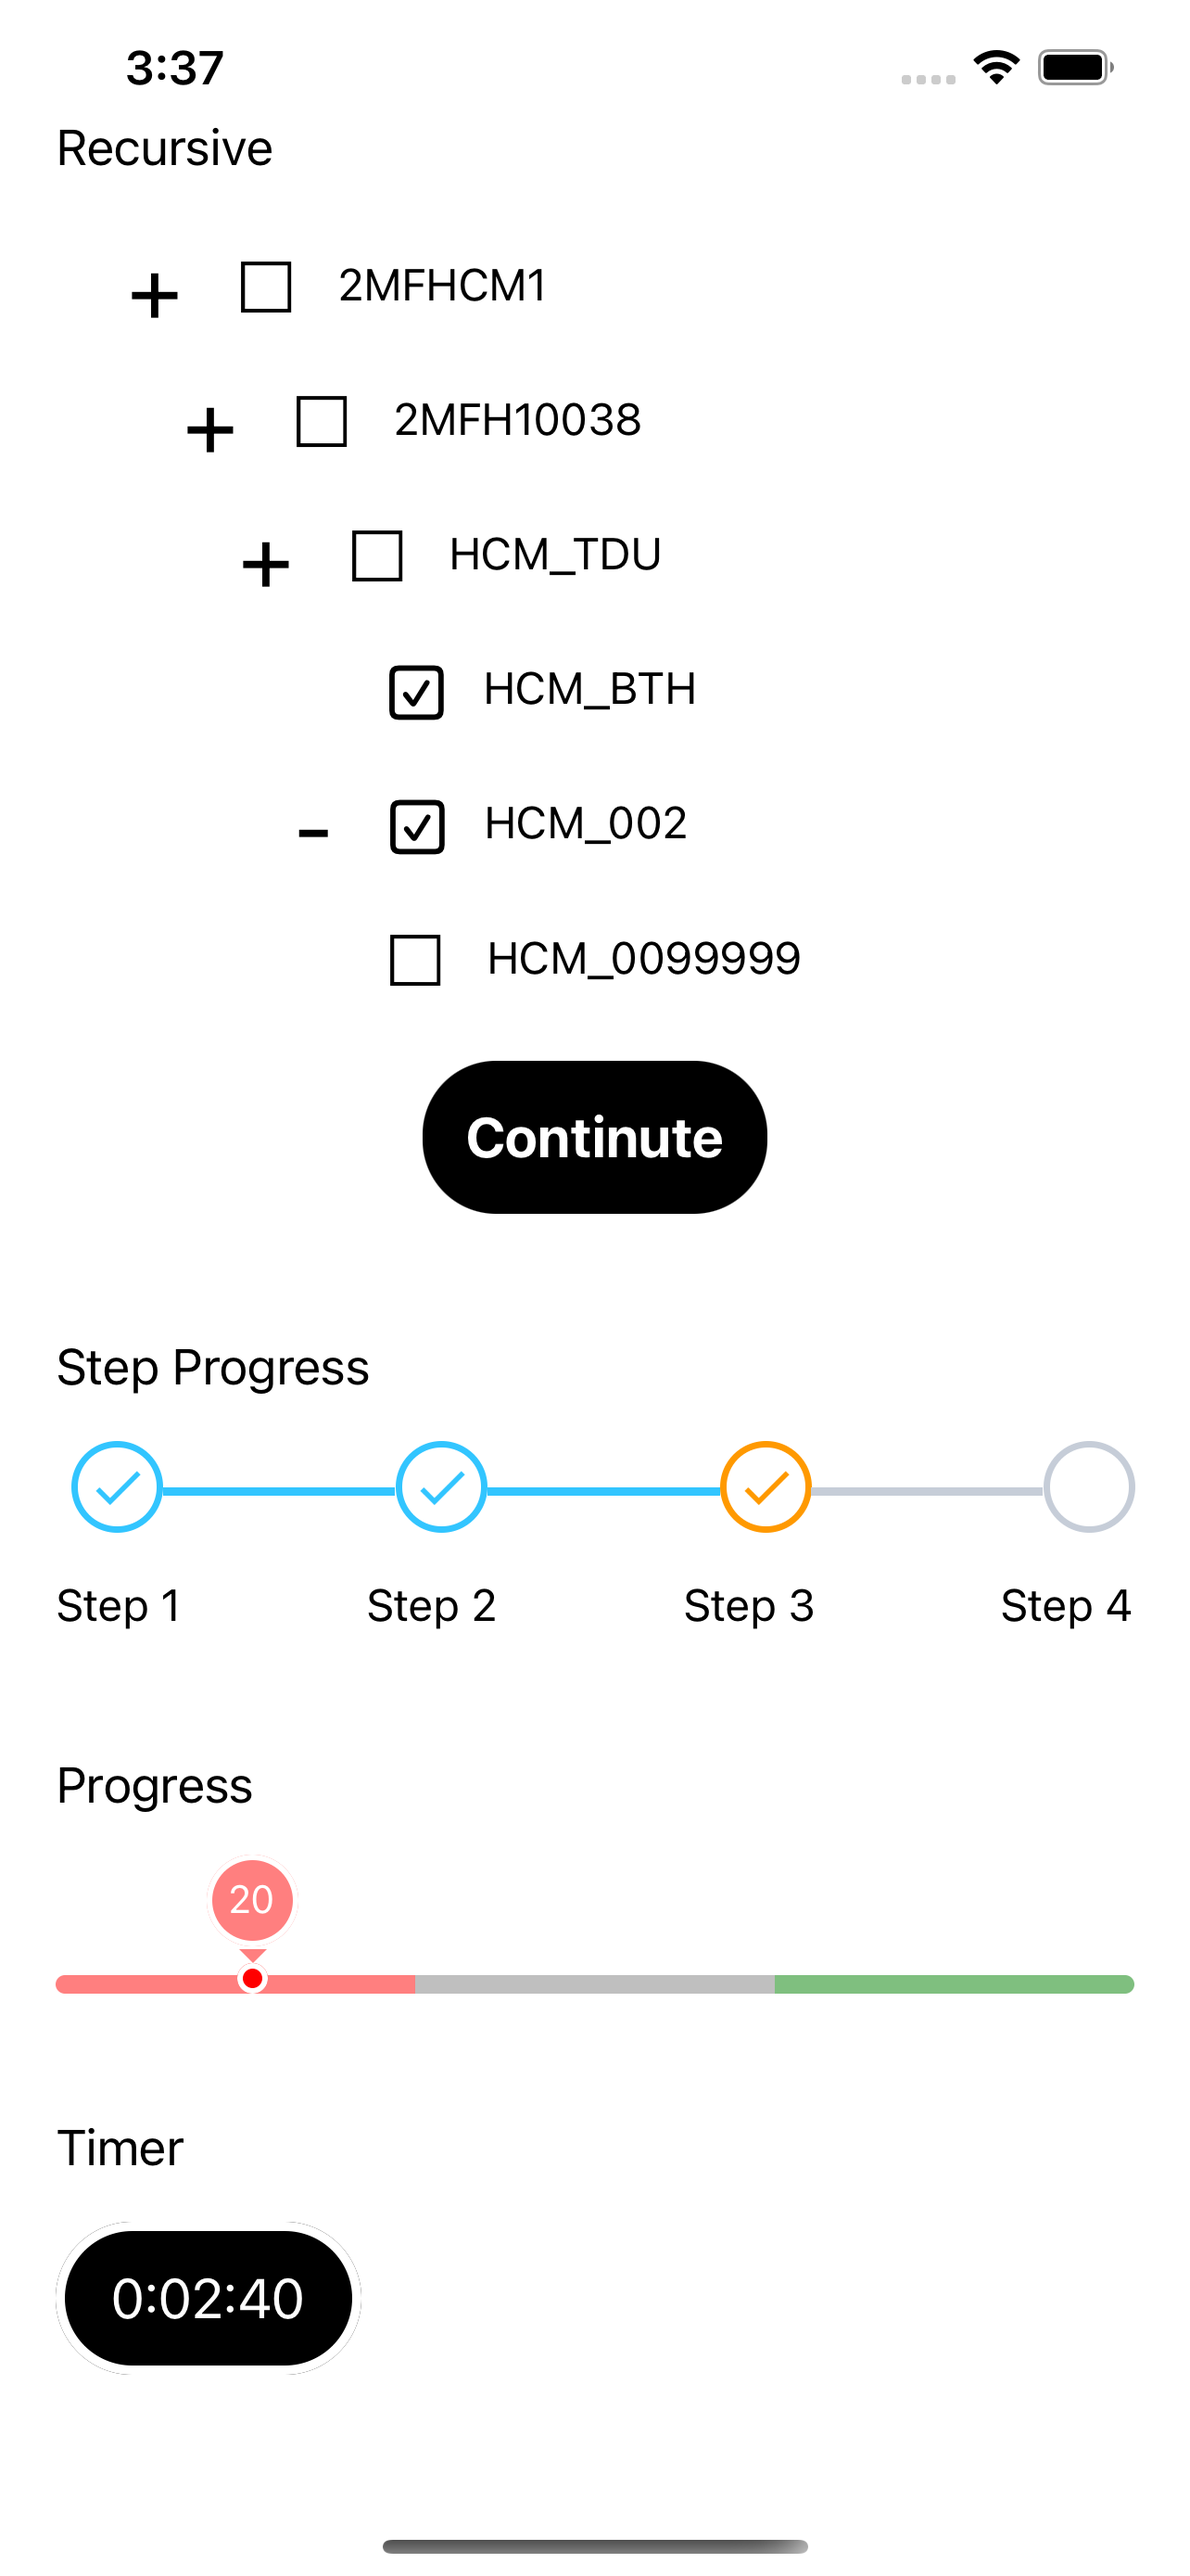
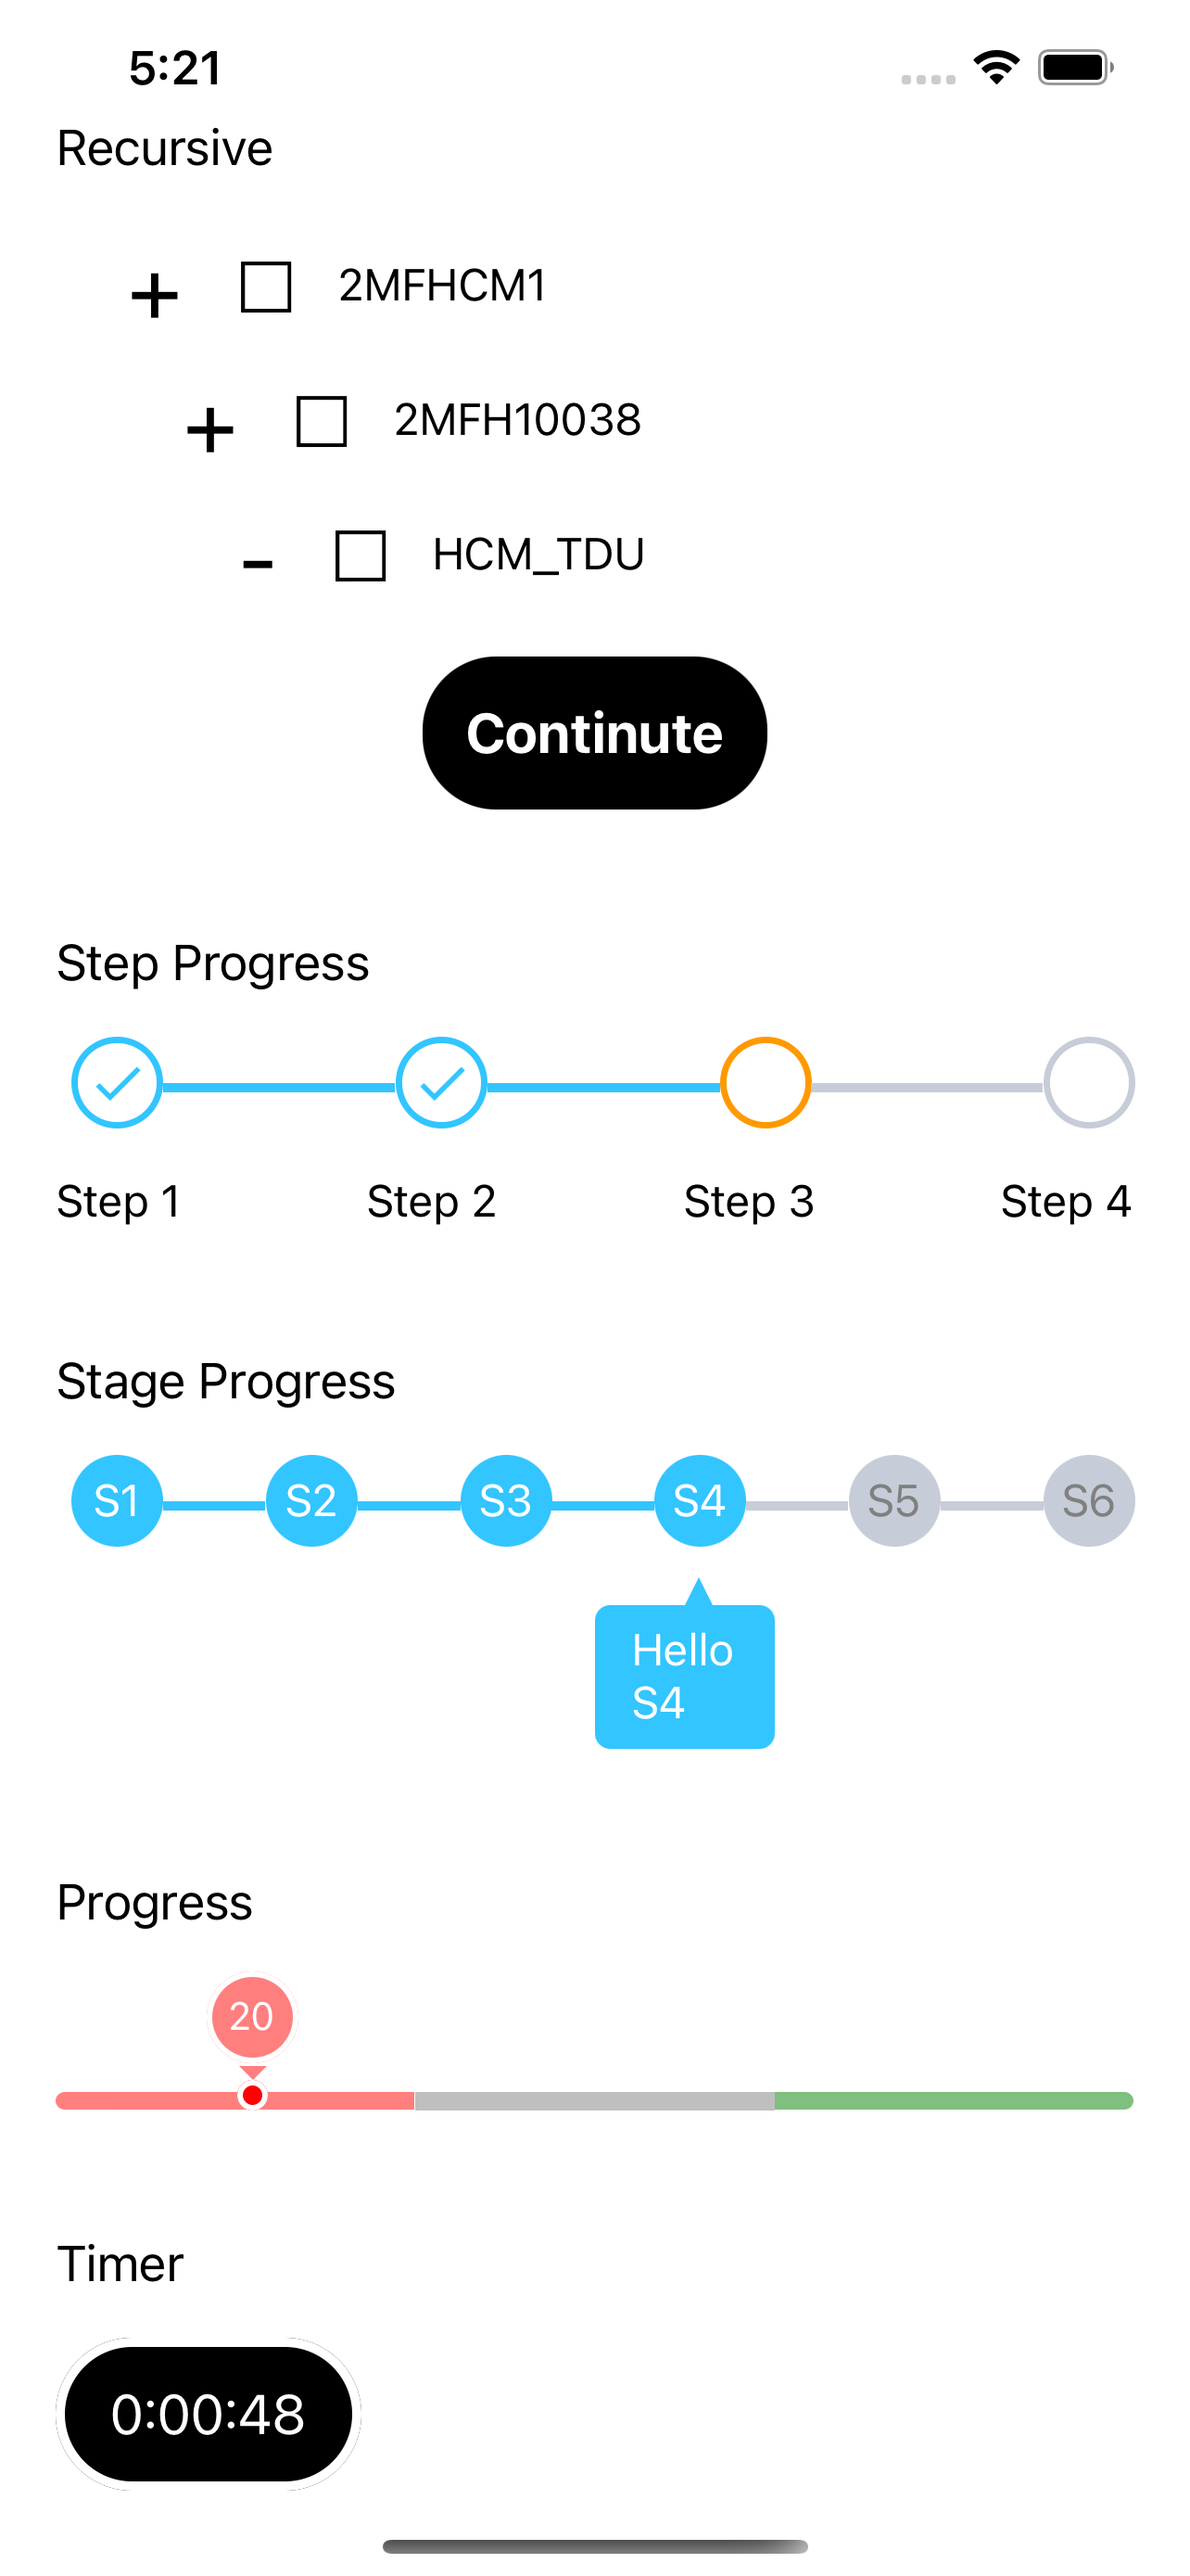
add stage progress

diff --git a/src/components/StageProgress/index.tsx b/src/components/StageProgress/index.tsx
@@ -15,18 +15,19 @@ export interface Props {
 }
 
 export interface Item {
+  stage: string;
   text: string;
   status: boolean;
 }
 
 const defaultProps = {
   data: [
-    { text: 'Step 1', status: false },
-    { text: 'Step 2', status: false },
-    { text: 'Step 3', status: false },
-    { text: 'Step 4', status: false },
-    { text: 'Step 5', status: false },
-    { text: 'Step 6', status: false },
+    { stage: 'S1', text: 'S1', status: false },
+    { stage: 'S2', text: 'S2', status: false },
+    { stage: 'S3', text: 'S3', status: false },
+    { stage: 'S4', text: 'S4', status: false },
+    { stage: 'S5', text: 'S5', status: false },
+    { stage: 'S6', text: 'S6', status: false },
   ],
   activeColor: '#32C5FF',
   inActiveColor: '#C6CDD8',
@@ -78,20 +79,23 @@ const StepProgress: React.FC<Props> = (props) => {
               style={[
                 styles.radius,
                 {
-                  borderColor:
+                  backgroundColor:
                     index === selectIndex ? selectColor : item.status ? activeColor : inActiveColor,
                 },
               ]}>
-              {item.status && (
-                <Image
-                  style={[
-                    styles.icon,
-                    { tintColor: index === selectIndex ? selectColor : activeColor },
-                  ]}
-                  source={require('./icon/check.png')}
-                />
-              )}
+              <Text
+                style={[
+                  {
+                    fontSize: fontScale(textSize),
+                    color: item.status || index === selectIndex ? 'white' : 'gray',
+                  },
+                ]}>
+                {item.stage}
+              </Text>
             </View>
+            {index === selectIndex && (
+              <View style={[styles.triangle, { borderBottomColor: activeColor }]} />
+            )}
           </TouchableOpacity>
         </View>
       </View>
@@ -100,14 +104,13 @@ const StepProgress: React.FC<Props> = (props) => {
 
   const renderText = (item: Item, index: number) => {
     return (
-      <View
-        style={[
-          index !== 0 && {
-            flex: 1,
-            alignItems: 'flex-end',
-          },
-        ]}>
-        <Text style={[styles.text, { fontSize: fontScale(textSize) }]}>{item.text}</Text>
+      <View style={{ flex: 1 }}>
+        {index === selectIndex && (
+          <View
+            style={[styles.tag, { backgroundColor: activeColor }, index === data.length - 1 && {}]}>
+            <Text style={styles.text}>{item.text}</Text>
+          </View>
+        )}
       </View>
     );
   };
@@ -138,7 +141,6 @@ const styles = StyleSheet.create({
     width: scale(30),
     height: scale(30),
     borderRadius: scale(15),
-    borderWidth: scale(2),
     backgroundColor: 'white',
     alignItems: 'center',
     justifyContent: 'center',
@@ -148,11 +150,32 @@ const styles = StyleSheet.create({
     height: scale(3),
     marginTop: scale(15),
   },
-  text: {
-    marginTop: scale(15),
-  },
+  text: { color: 'white', fontSize: fontScale(16) },
   icon: {
     width: scale(20),
     height: scale(20),
+  },
+  tag: {
+    paddingHorizontal: scale(12),
+    paddingVertical: scale(6),
+    borderRadius: scale(5),
+    justifyContent: 'center',
+    alignItems: 'center',
+  },
+  triangle: {
+    marginTop: scale(10),
+    marginLeft: scale(10),
+    width: 0,
+    height: 0,
+    backgroundColor: 'transparent',
+    borderStyle: 'solid',
+    borderTopWidth: 0,
+    borderRightWidth: 5,
+    borderBottomWidth: 10,
+    borderLeftWidth: 5,
+    borderRightColor: 'transparent',
+    borderTopColor: 'transparent',
+    borderLeftColor: 'transparent',
+    opacity: 1,
   },
 });

diff --git a/example/App.tsx b/example/App.tsx
@@ -1,6 +1,6 @@
 import React, { useState } from 'react';
 import { StyleSheet, View, ScrollView, Text } from 'react-native';
-import { CRecursive, CTimer, CStepProgress, CProgress } from 'react-native-utils-components';
+import { CRecursive, CTimer, CStepProgress, CStageProgress, CProgress } from 'react-native-utils-components';
 import { dimensionsScale } from 'react-native-utils-scale';
 
 const { scale } = dimensionsScale;
@@ -62,8 +62,7 @@ const recursiveData = [{
             shopCode: 'HCM_0099999',
             shopType: '4',
             shopId: 8,
-            shopName: 'Q.09',
-           
+            shopName: 'Q.09',     
           },
         ],
       }
@@ -76,7 +75,8 @@ export interface Props {
 }
 
 const MainScreen: React.FC<Props> = (props) => {
-  const [index, setIndex] = useState<number>(0);
+  const [step, setStep] = useState<number>(1);
+  const [stage, setStage] = useState<number>(2);
 
   return (
     <ScrollView>
@@ -101,15 +101,36 @@ const MainScreen: React.FC<Props> = (props) => {
             data={[
               { text: 'Step 1', status: true },
               { text: 'Step 2', status: true },
-              { text: 'Step 3', status: true },
+              { text: 'Step 3', status: false },
               { text: 'Step 4', status: false },
             ]}
-            selectIndex={index}
-            onSelectIndex={(index: number) => { setIndex(index) }}
+            selectIndex={step}
+            onSelectIndex={(index: number) => { setStep(index) }}
             activeColor='#32C5FF'
             inActiveColor='#C6CDD8'
             selectColor='#FF9900'
             textSize={16}
+          />
+        </View>
+
+        <View style={styles.row}>
+          <Text style={styles.title}>Stage Progress</Text>
+          <CStageProgress
+            data={[
+              { stage: 'S1', text: 'Hello S1', status: true },
+              { stage: 'S2', text: 'Hello S2', status: true },
+              { stage: 'S3', text: 'Hello S3', status: true },
+              { stage: 'S4', text: 'Hello S4', status: false },
+              { stage: 'S5', text: 'Hello S5', status: false },
+              { stage: 'S6', text: 'Hello S6', status: false },
+            ]}
+            activeColor="#32C5FF"
+            inActiveColor="#C6CDD8"
+            selectColor="#32C5FF"
+            selectIndex={stage}
+            onSelectIndex={(index: number) => {
+              setStage(index);
+            }}
           />
         </View>
 

diff --git a/index.ts b/index.ts
@@ -1,6 +1,7 @@
 import CRecursive from './src/components/Recursive';
 import CTimer from './src/components/Timer';
 import CStepProgress from './src/components/StepProgress';
+import CStageProgress from './src/components/StageProgress';
 import CProgress from './src/components/Progress';
 
-export { CTimer, CRecursive, CStepProgress, CProgress };
+export { CTimer, CRecursive, CStepProgress, CStageProgress, CProgress };
